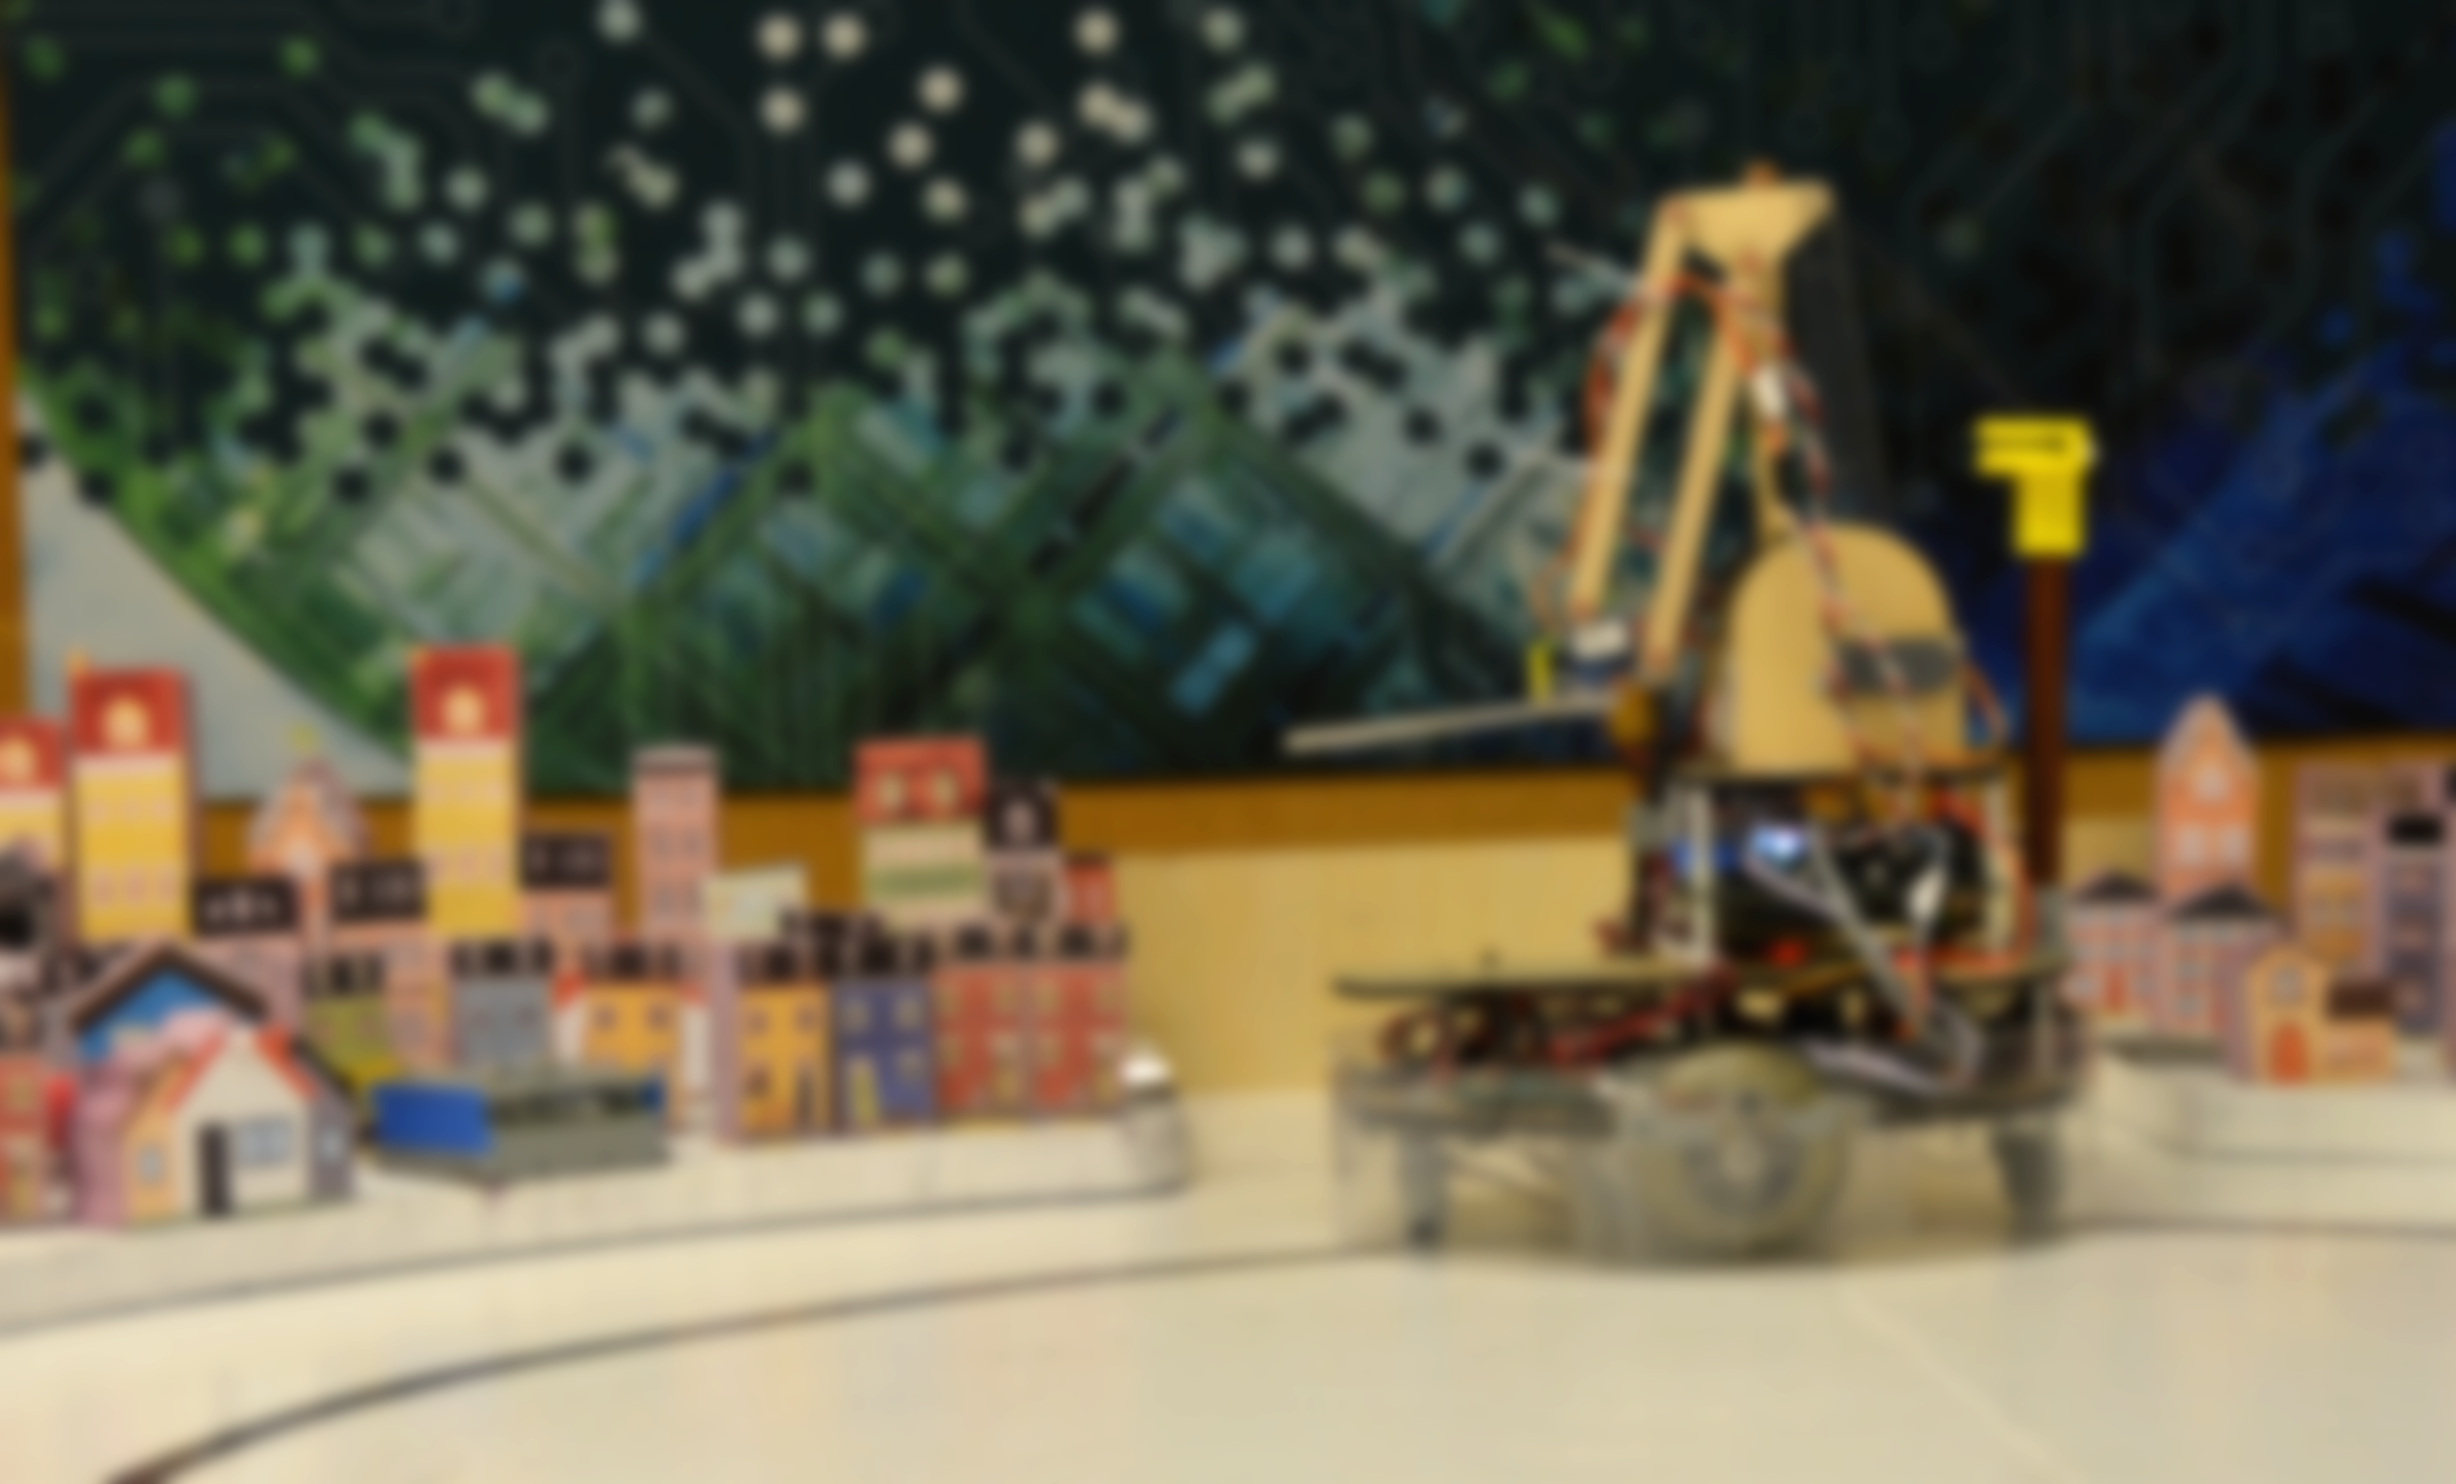
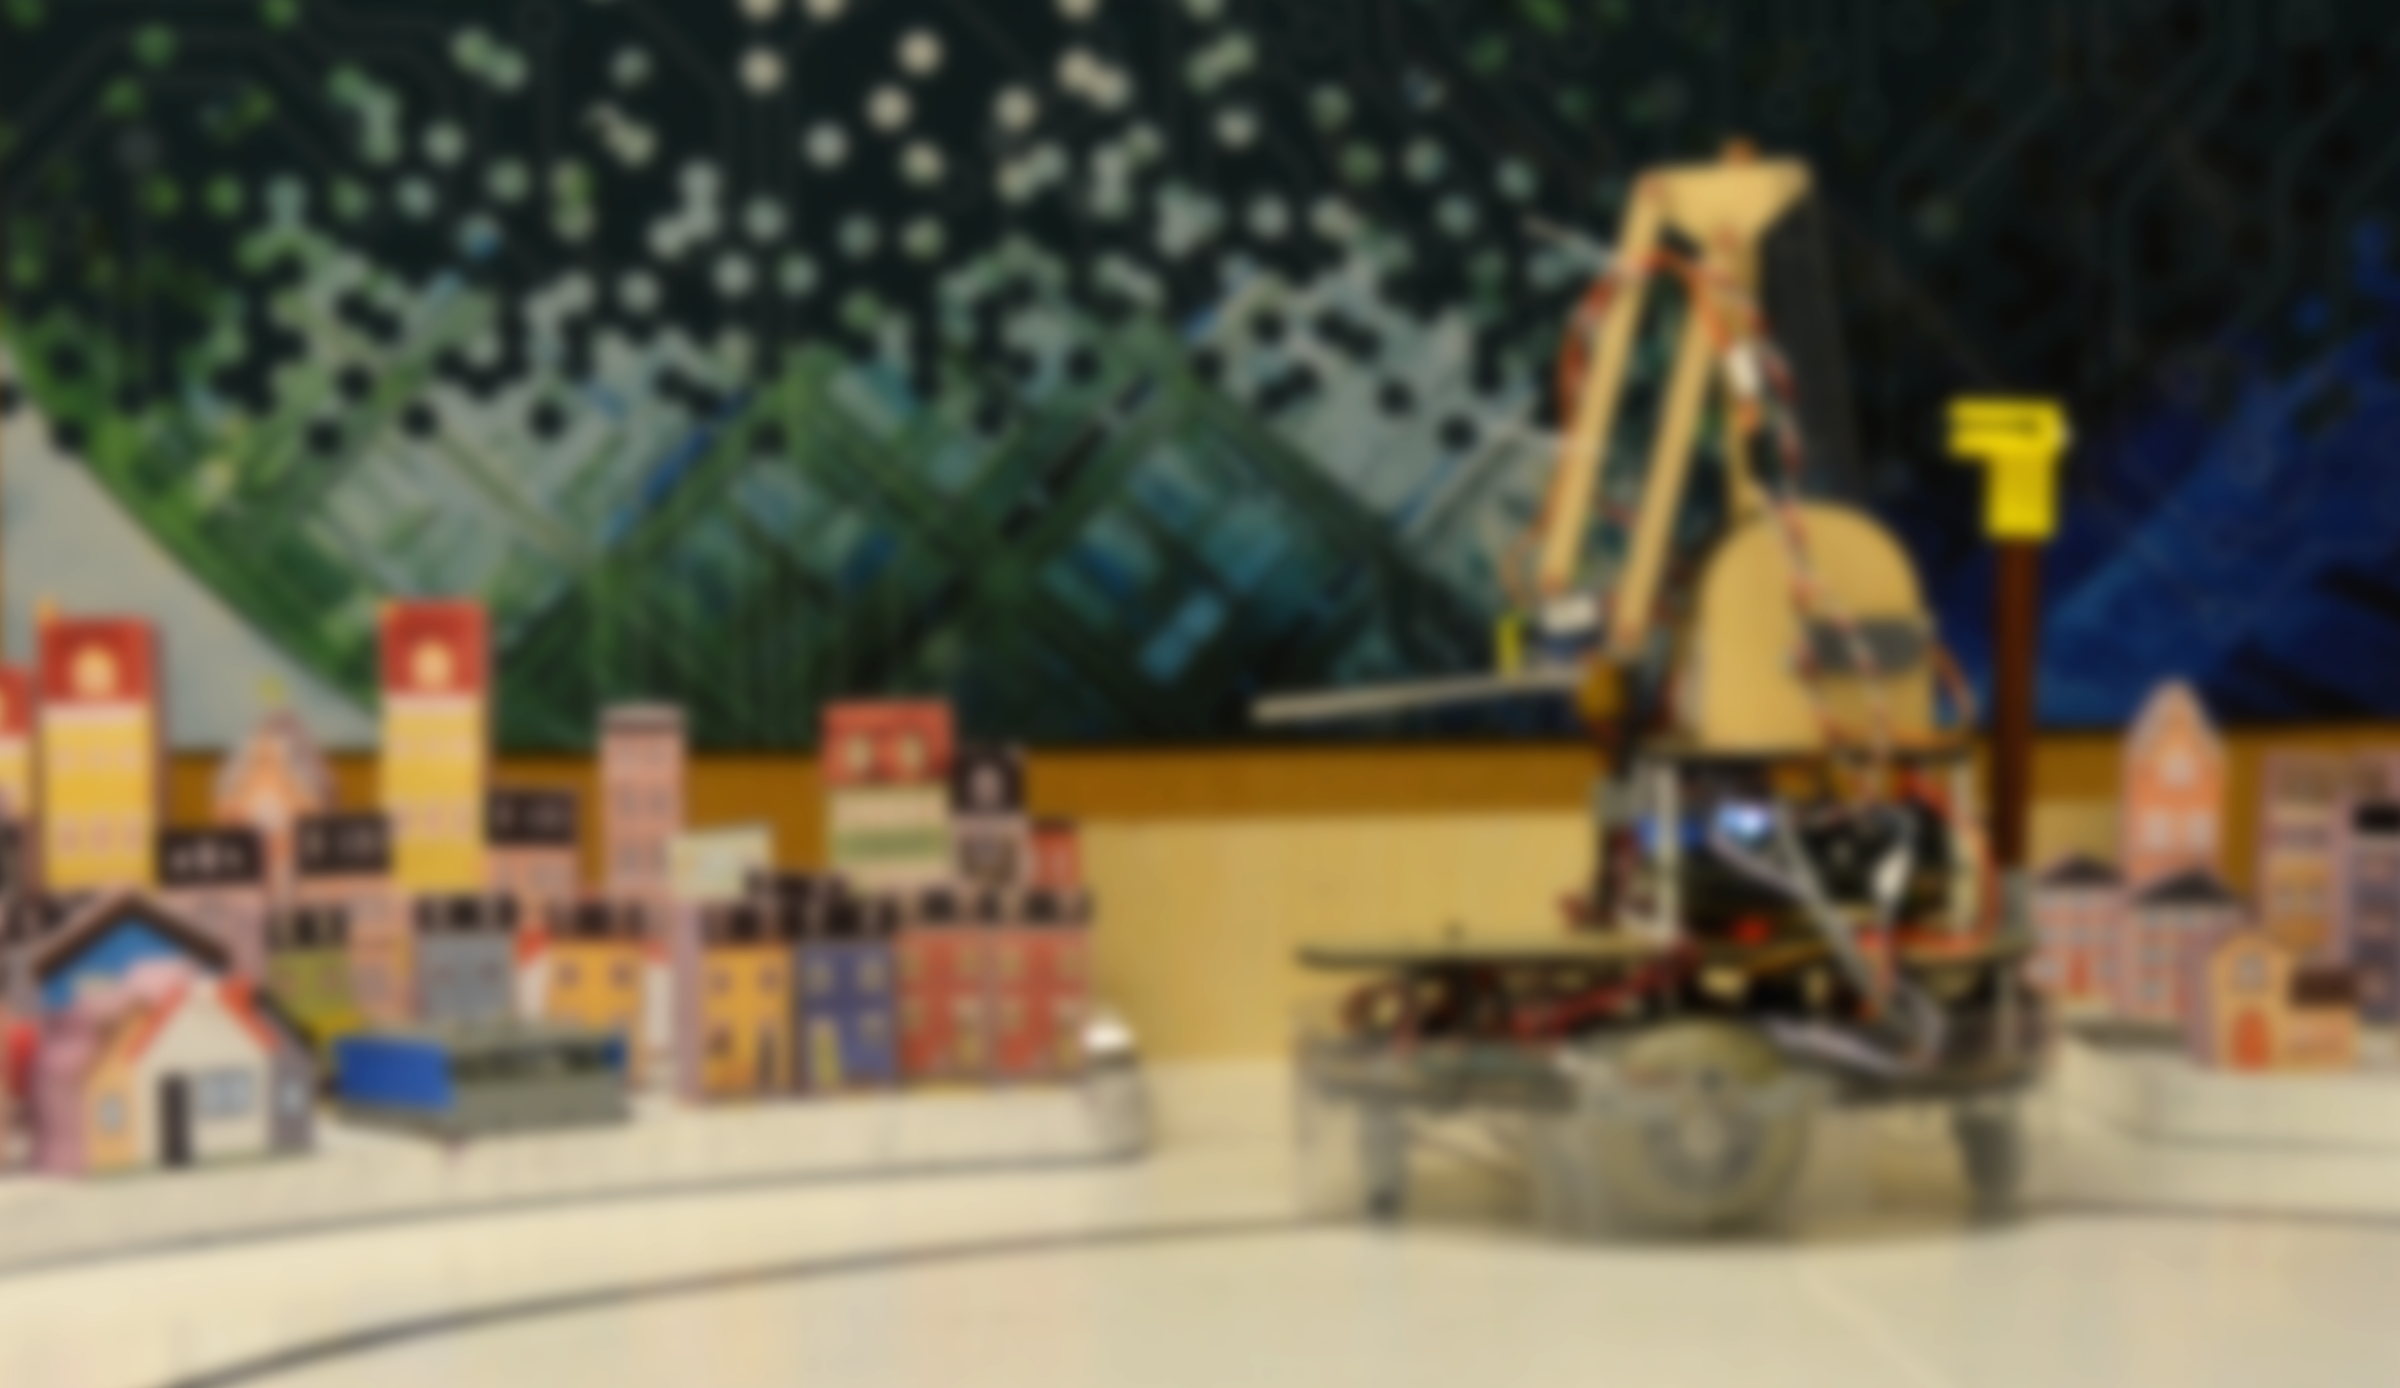
Edited landing page images

diff --git a/index.html b/index.html
@@ -1,4 +1,4 @@
-<!DOCTYPE HTML>
+<!DOCTYPE HTML>
 <!--
 	Spectral by HTML5 UP
 	html5up.net | @ajlkn
@@ -44,7 +44,7 @@
 					<section id="banner">
 						<div class="inner">
 							<h2>Engineering Physics 253</h2>
-							<p>A six week rapid prototyping <br> course and robot competition. <br> TODO: add a blurred robot picture as background</p>
+							<p>A six week rapid prototyping <br> course and robot competition. <br>  Team 6: Roombot</p>
 
 						</div>
 						<a href="#one" class="more scrolly">Learn More</a>
